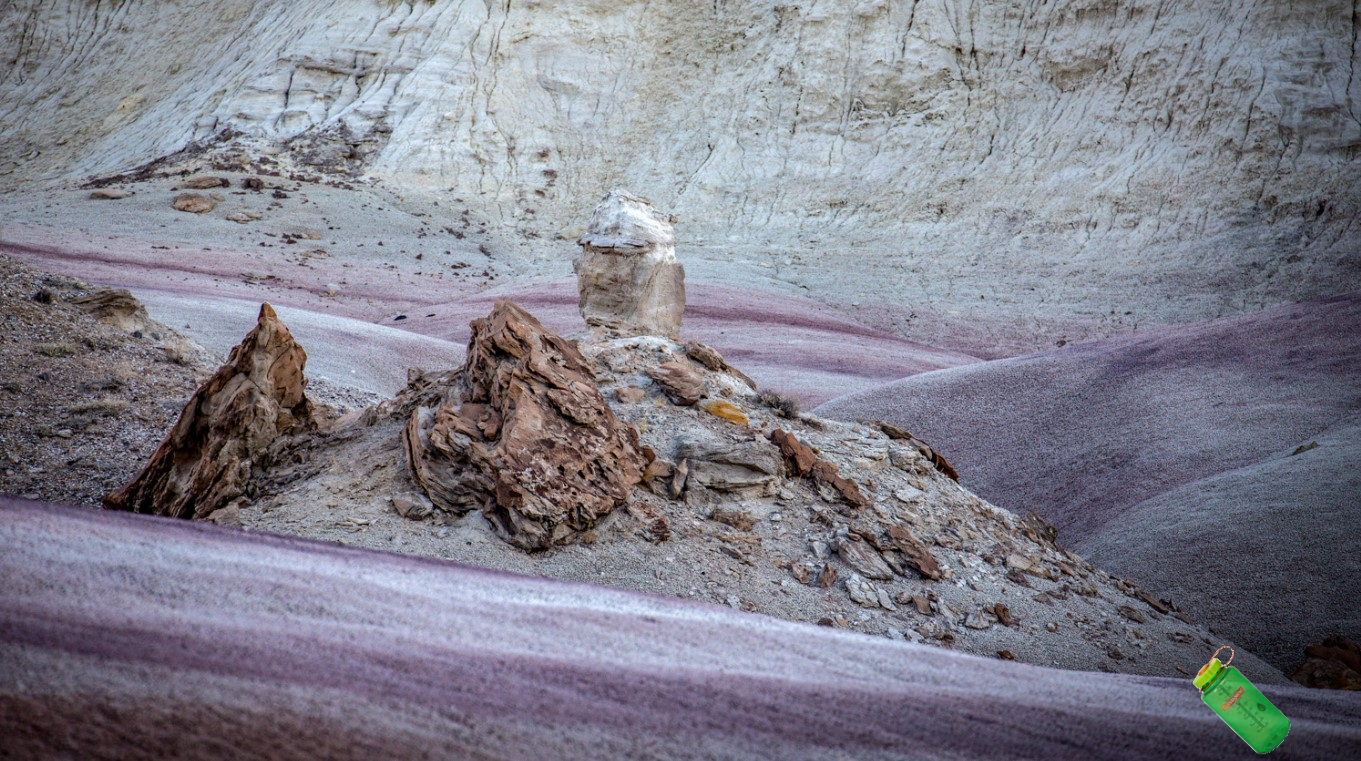
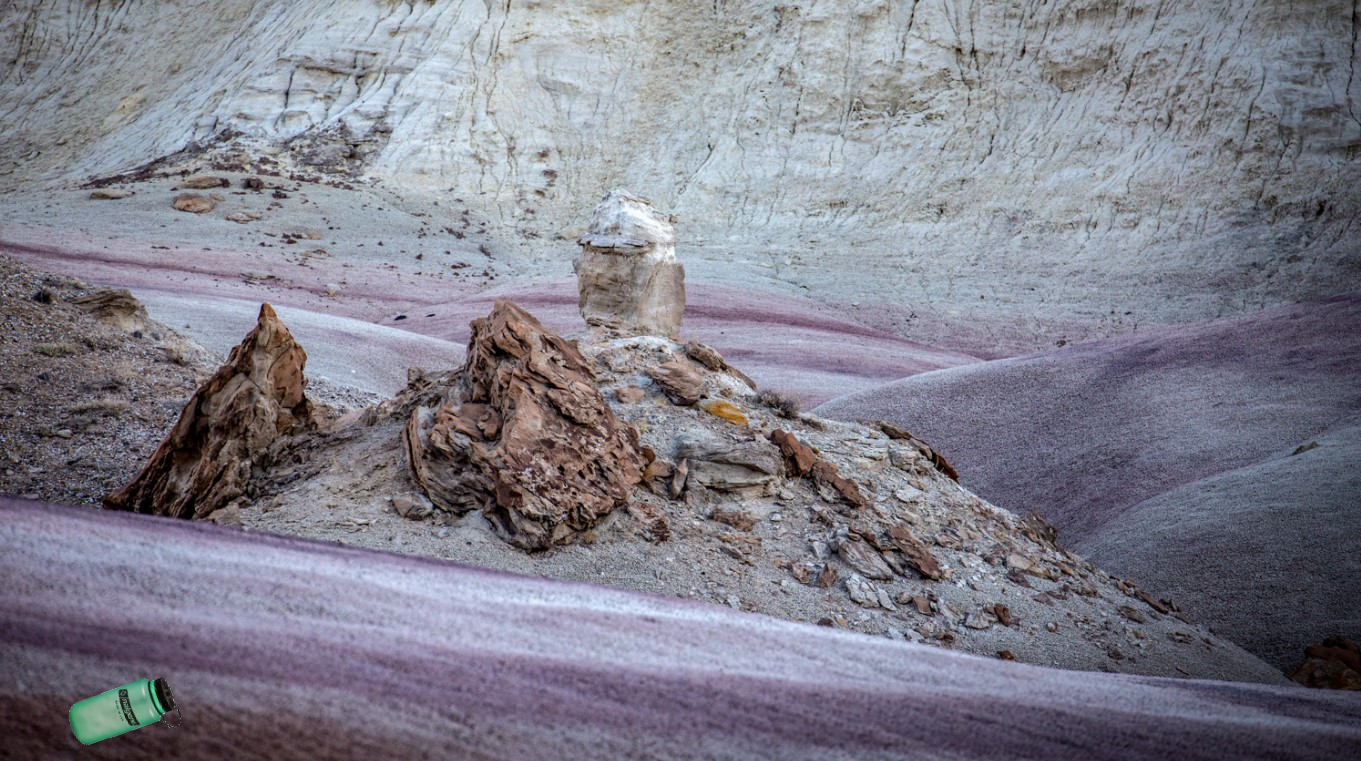
Improved example synthetic dataset

Changed region(s): [[0.8641, 0.8463, 0.9566, 0.9974], [0.0309, 0.8765, 0.1543, 0.9974]]

diff --git a/dataset_generator.py b/dataset_generator.py
@@ -202,7 +202,7 @@ def generate_images(object_folders:list[str], object_transformations:list[tuple[
   """
   id:int = 0
   # Generate random values (note I've done this ahead of time as the nested loop structure regenerated them unintentionally)
-  b_values:list[int] = [random.randint(0, 8) for _ in range(background_variants)]
+  b_values:list[int] = [random.randint(0, 7) for _ in range(background_variants)]
   f_values:list[int] = [
     [random.randint(0, 13) for _ in range(foreground_variants)], 
     [random.randint(0, 16) for _ in range(foreground_variants)]
@@ -263,6 +263,6 @@ if __name__=="__main__":
     a_variants=1,
     m_variants=1,
     min_h_offset=0.2, # Minimum height offset from the top (normalised to background height), for the foreground
-    max_blur=20, # Generally set to <20
+    max_blur=0, # Generally set to <20
     bounding_box_size=0.9 # Normalised from 0 to 1
   )
